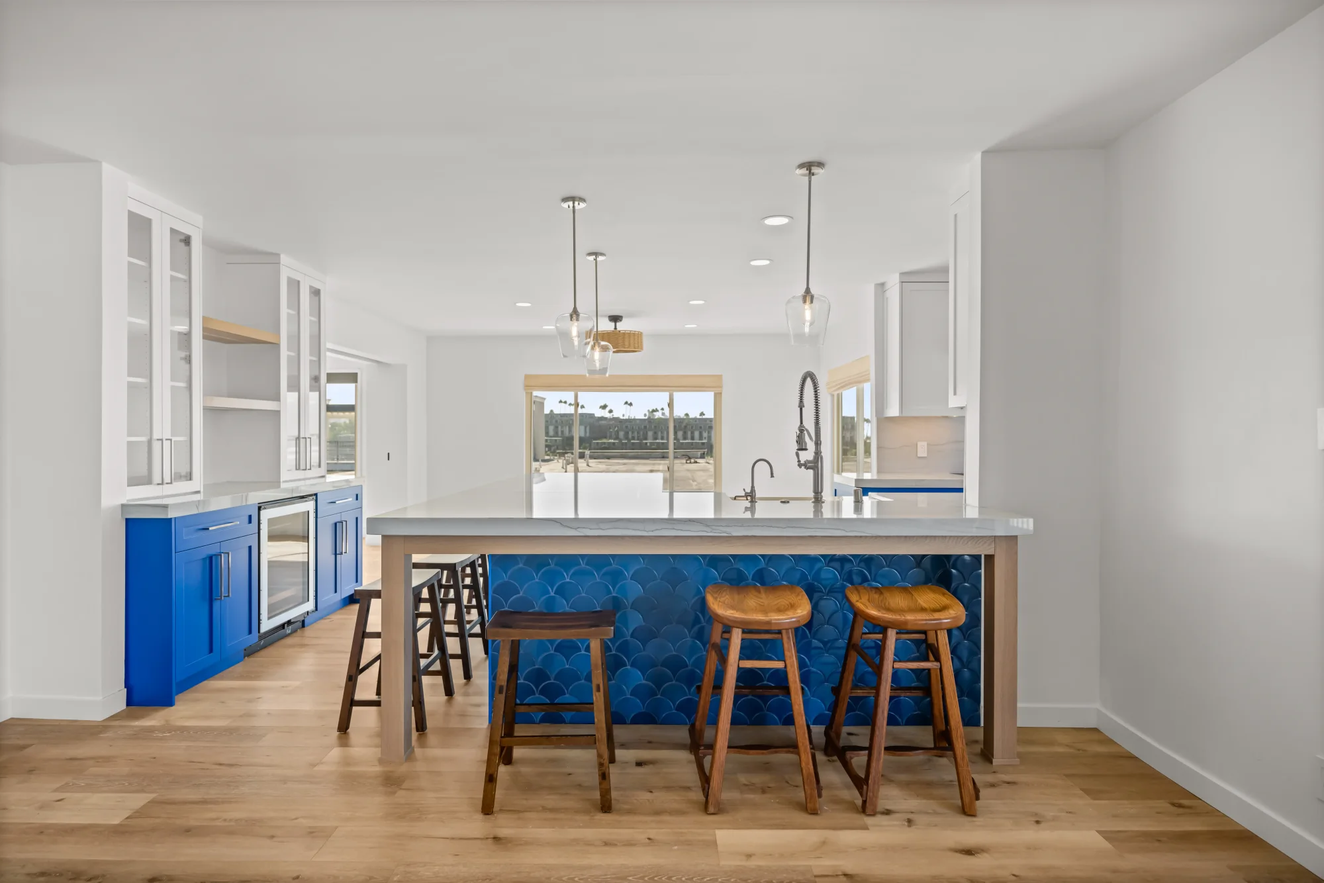
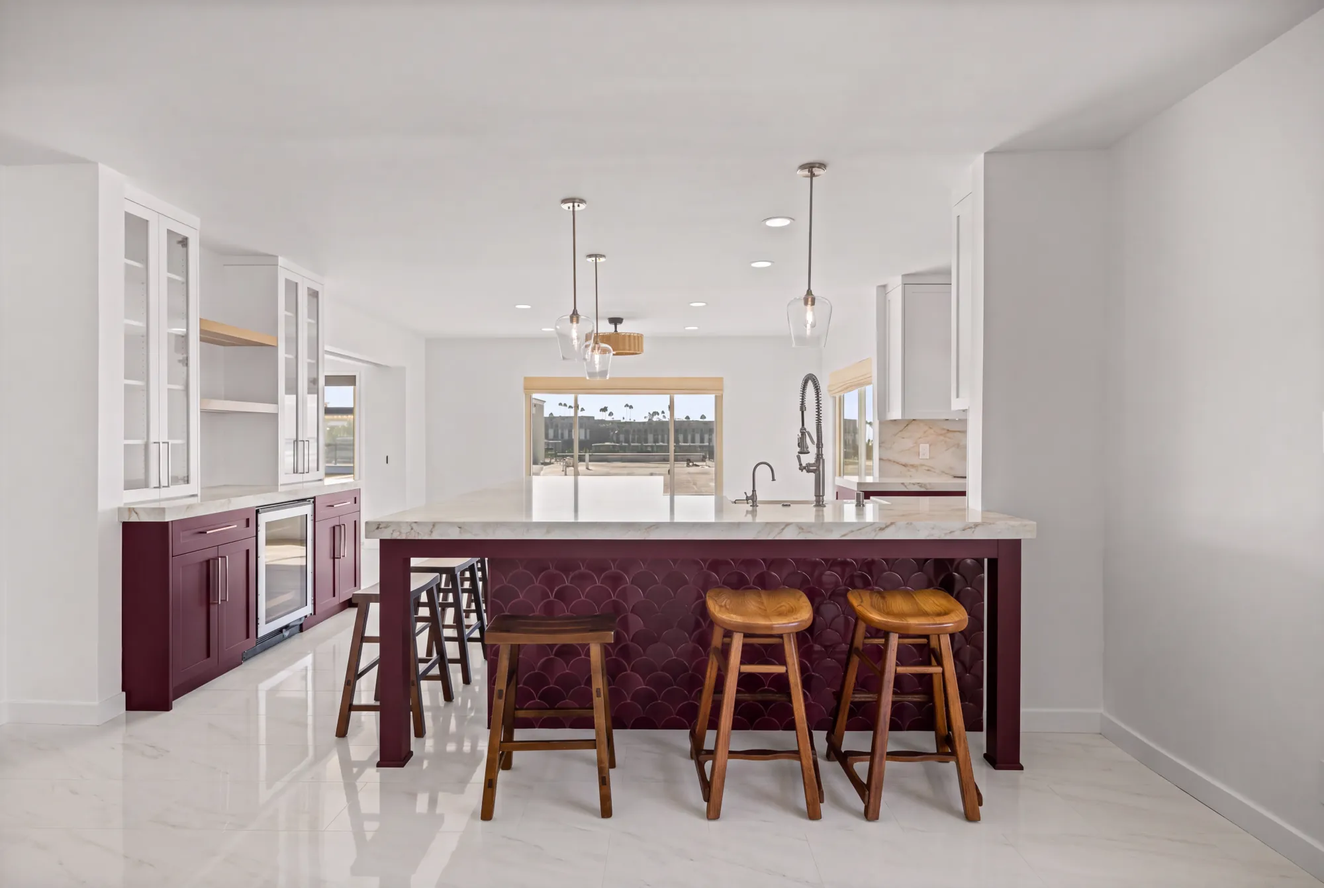
Dixie in burgundy, and the details brought in line with the photographs
Dixie Drive is the same room with burgundy base cabinets where they were blue,
white uppers unchanged, and a pale large-format floor where it was wood-look
plank. Photographs 1 to 6 are replaced; 11 to 20 are the bathrooms and stay.
Photograph 7 was a close-up of the blue base cabinets, so it is deleted rather
than left to contradict the rest; 8 is the laundry, a different room that was
not reshot, so it stays. The whole-home page keeps its LVP claim for the rest
of the house and now names tile in the kitchen.

Three jobs swapped earlier had details that were never checked past their
cabinet colour, and two were wrong:

Canyon Drive had no counters row at all, listed a tile backsplash where the
photographs show a stone slab behind the range, and never mentioned that the
cabinets are green. All three fixed.

Luciernaga argued that quartz, being engineered rather than quarried, means
the slab that arrives matches the slab specified. The new counters have heavy
natural movement, which is the opposite claim, so the material is described
rather than named and the paragraph now makes the case the photographs
actually support: veining that has to be laid out before it is cut.

Unicornio's details survive the reshoot unchanged.

Both cabinet landing galleries were carrying the same twenty projects in two
different orders, and neither matched the main gallery. All three now run in
the same order.

diff --git a/kitchen-remodel-pacific-beach-dixie-drive.html b/kitchen-remodel-pacific-beach-dixie-drive.html
@@ -17,7 +17,7 @@
 
 
   <title>Kitchen Remodel in Pacific Beach — Dixie Drive | Guild Builders Inc.</title>
-  <meta name="description" content="A full gut in Pacific Beach with custom blue base cabinets under custom white uppers, quartzite counters and backsplash, and every appliance relocated." />
+  <meta name="description" content="A full gut in Pacific Beach with custom burgundy base cabinets under custom white uppers, quartzite counters and backsplash, and every appliance relocated." />
 
 <link rel="preload" href="fonts/montserrat-latin.woff2" as="font" type="font/woff2" crossorigin />
   <link rel="preload" href="fonts/cormorant-garamond-latin.woff2" as="font" type="font/woff2" crossorigin />
@@ -33,7 +33,7 @@
   <meta property="og:type" content="article" />
   <meta property="og:site_name" content="Guild Builders Inc." />
   <meta property="og:title" content="Kitchen Remodel in Pacific Beach — Dixie Drive | Guild Builders Inc." />
-  <meta property="og:description" content="A full gut in Pacific Beach with custom blue base cabinets under custom white uppers, quartzite counters and backsplash, and every appliance relocated." />
+  <meta property="og:description" content="A full gut in Pacific Beach with custom burgundy base cabinets under custom white uppers, quartzite counters and backsplash, and every appliance relocated." />
   <meta property="og:url" content="https://guildbuildersgroup.com/kitchen-remodel-pacific-beach-dixie-drive" />
   <meta property="og:image" content="https://guildbuildersgroup.com/dixie1-1000.webp" />
   <meta name="twitter:card" content="summary_large_image" />
@@ -50,7 +50,7 @@
     "telephone": "+1-619-763-2982",
     "email": "info@guildbuildersgroup.com",
     "priceRange": "$$$",
-    "description": "A full gut in Pacific Beach with custom blue base cabinets under custom white uppers, quartzite counters and backsplash, and every appliance relocated.",
+    "description": "A full gut in Pacific Beach with custom burgundy base cabinets under custom white uppers, quartzite counters and backsplash, and every appliance relocated.",
     "address": {
       "@type": "PostalAddress",
       "streetAddress": "1345 Encinitas Blvd",
@@ -106,7 +106,7 @@
     "@type": "Service",
     "serviceType": "Kitchen Remodeling",
     "name": "Kitchen Remodeling in Pacific Beach",
-    "description": "A full gut in Pacific Beach with custom blue base cabinets under custom white uppers, quartzite counters and backsplash, and every appliance relocated.",
+    "description": "A full gut in Pacific Beach with custom burgundy base cabinets under custom white uppers, quartzite counters and backsplash, and every appliance relocated.",
     "url": "https://guildbuildersgroup.com/kitchen-remodel-pacific-beach-dixie-drive",
     "provider": {
       "@type": "GeneralContractor",
@@ -157,7 +157,7 @@
       <div class="container hero-content">
         <p class="eyebrow">Project &middot; Pacific Beach</p>
         <h1>Kitchen Remodel in Pacific Beach</h1>
-        <p class="hero-text">Dixie Drive &mdash; custom blue cabinets beneath custom white uppers, quartzite counters and backsplash, and every appliance in a new location.</p>
+        <p class="hero-text">Dixie Drive &mdash; custom burgundy cabinets beneath custom white uppers, quartzite counters and backsplash, and every appliance in a new location.</p>
       </div>
     </section>
 
@@ -171,19 +171,19 @@
             <div class="project-spec"><dt>Location</dt><dd>Pacific Beach, San Diego</dd></div>
             <div class="project-spec"><dt>Timeline</dt><dd>7 weeks</dd></div>
             <div class="project-spec"><dt>Scope</dt><dd>Full gut, all appliances relocated</dd></div>
-            <div class="project-spec"><dt>Cabinetry</dt><dd>Custom blue base, custom white uppers</dd></div>
+            <div class="project-spec"><dt>Cabinetry</dt><dd>Custom burgundy base, custom white uppers</dd></div>
             <div class="project-spec"><dt>Counters</dt><dd>Quartzite</dd></div>
             <div class="project-spec"><dt>Backsplash</dt><dd>Quartzite</dd></div>
             <div class="project-spec"><dt>Windows</dt><dd>New throughout</dd></div>
-            <div class="project-spec"><dt>Flooring</dt><dd>New luxury vinyl plank</dd></div>
+            <div class="project-spec"><dt>Flooring</dt><dd>Large-format tile</dd></div>
           </dl>
 
           <div class="post-body">
 <p>A full gut in Pacific Beach, built in two-tone custom cabinetry with quartzite carried from the counters straight up the wall.</p>
 
-<h2>Blue below, white above</h2>
+<h2>Burgundy below, white above</h2>
 
-<p>The base cabinets are a custom blue; the uppers are custom white. Both were built for the room rather than ordered from a line.</p>
+<p>The base cabinets are a custom burgundy; the uppers are custom white. Both were built for the room rather than ordered from a line.</p>
 
 <p>Two-tone is not only a colour decision &mdash; it changes how the kitchen sits. Darker cabinets below and lighter above give the room a base and let the top half recede, so the space reads taller and less closed in than an all-one-colour run. It is a useful move in beach houses, where kitchens are often smaller and ceilings lower than in newer inland construction.</p>
 
@@ -195,7 +195,7 @@
 
 <p>Quartzite is a natural stone, quarried rather than manufactured, which means the slab you choose is the slab you get &mdash; worth seeing in person before it is cut. It is harder than marble and it will take a hot pan, which engineered quartz will not.</p>
 
-<p>Against blue cabinetry it does something specific: the stone's movement is what carries the visual interest, so the cabinet colour can stay flat and calm underneath it.</p>
+<p>Against burgundy it does something specific: the stone's movement carries the visual interest, so the cabinet colour can sit flat and solid underneath it rather than competing.</p>
 
 <h2>Every appliance relocated</h2>
 
@@ -203,11 +203,11 @@
 
 <p>In an older Pacific Beach house this is usually the right call. These kitchens were laid out for how people cooked decades ago, often in a smaller footprint with the refrigerator wherever it fit. Rebuilding the layout is what makes the finished room work.</p>
 
-<h2>New windows and LVP flooring</h2>
+<h2>New windows and a tile floor</h2>
 
 <p>New windows went in throughout while the walls were open &mdash; far less disruptive than doing it after the finishes are in. Coastal houses take salt air on the frames, and older single-pane units are usually the weakest point in the whole envelope.</p>
 
-<p>The floors are new luxury vinyl plank: fully waterproof, which is worth having a few blocks from the sand, and forgiving of the sand itself.</p>
+<p>The floor is large-format tile laid with tight joints, so there is very little grout to hold the sand that comes through the door a few blocks from the beach. It is also the surface least bothered by a wet swimsuit walking across it.</p>
 
 <h2>The result</h2>
 
@@ -230,7 +230,6 @@
           <img src="dixie4-1000.webp" data-full="dixie4-2000.webp" alt="Dixie Drive kitchen remodel in Pacific Beach — photo 4" class="gallery-image" loading="lazy" />
           <img src="dixie5-1000.webp" data-full="dixie5-2000.webp" alt="Dixie Drive kitchen remodel in Pacific Beach — photo 5" class="gallery-image" loading="lazy" />
           <img src="dixie6-1000.webp" data-full="dixie6-2000.webp" alt="Dixie Drive kitchen remodel in Pacific Beach — photo 6" class="gallery-image" loading="lazy" />
-          <img src="dixie7-1000.webp" data-full="dixie7-2000.webp" alt="Dixie Drive kitchen remodel in Pacific Beach — photo 7" class="gallery-image" loading="lazy" />
           <img src="dixie8-1000.webp" data-full="dixie8-2000.webp" alt="Dixie Drive kitchen remodel in Pacific Beach — photo 8" class="gallery-image" loading="lazy" />
         </div>
       </div>

diff --git a/home-renovation-pacific-beach-dixie-drive.html b/home-renovation-pacific-beach-dixie-drive.html
@@ -17,7 +17,7 @@
 
 
   <title>Whole Home Renovation in Pacific Beach — Dixie Drive | Guild Builders Inc.</title>
-  <meta name="description" content="A whole-home renovation in Pacific Beach: a two-tone custom kitchen with quartzite counters and backsplash, four bathrooms on a coastal theme, new windows and new LVP throughout." />
+  <meta name="description" content="A whole-home renovation in Pacific Beach: a two-tone custom kitchen with quartzite counters and backsplash, four bathrooms on a coastal theme, new windows, and new flooring throughout." />
 
 <link rel="preload" href="fonts/montserrat-latin.woff2" as="font" type="font/woff2" crossorigin />
   <link rel="preload" href="fonts/cormorant-garamond-latin.woff2" as="font" type="font/woff2" crossorigin />
@@ -33,7 +33,7 @@
   <meta property="og:type" content="article" />
   <meta property="og:site_name" content="Guild Builders Inc." />
   <meta property="og:title" content="Whole Home Renovation in Pacific Beach — Dixie Drive | Guild Builders Inc." />
-  <meta property="og:description" content="A whole-home renovation in Pacific Beach: a two-tone custom kitchen with quartzite counters and backsplash, four bathrooms on a coastal theme, new windows and new LVP throughout." />
+  <meta property="og:description" content="A whole-home renovation in Pacific Beach: a two-tone custom kitchen with quartzite counters and backsplash, four bathrooms on a coastal theme, new windows, and new flooring throughout." />
   <meta property="og:url" content="https://guildbuildersgroup.com/home-renovation-pacific-beach-dixie-drive" />
   <meta property="og:image" content="https://guildbuildersgroup.com/dixie1-1000.webp" />
   <meta name="twitter:card" content="summary_large_image" />
@@ -50,7 +50,7 @@
     "telephone": "+1-619-763-2982",
     "email": "info@guildbuildersgroup.com",
     "priceRange": "$$$",
-    "description": "A whole-home renovation in Pacific Beach: a two-tone custom kitchen with quartzite counters and backsplash, four bathrooms on a coastal theme, new windows and new LVP throughout.",
+    "description": "A whole-home renovation in Pacific Beach: a two-tone custom kitchen with quartzite counters and backsplash, four bathrooms on a coastal theme, new windows, and new flooring throughout.",
     "address": {
       "@type": "PostalAddress",
       "streetAddress": "1345 Encinitas Blvd",
@@ -106,7 +106,7 @@
     "@type": "Service",
     "serviceType": "Home Renovation",
     "name": "Home Renovation in Pacific Beach",
-    "description": "A whole-home renovation in Pacific Beach: a two-tone custom kitchen with quartzite counters and backsplash, four bathrooms on a coastal theme, new windows and new LVP throughout.",
+    "description": "A whole-home renovation in Pacific Beach: a two-tone custom kitchen with quartzite counters and backsplash, four bathrooms on a coastal theme, new windows, and new flooring throughout.",
     "url": "https://guildbuildersgroup.com/home-renovation-pacific-beach-dixie-drive",
     "provider": {
       "@type": "GeneralContractor",
@@ -172,10 +172,10 @@
             <div class="project-spec"><dt>Scope</dt><dd>Kitchen, four bathrooms, windows and flooring</dd></div>
             <div class="project-spec"><dt>Kitchen</dt><dd>7 weeks &mdash; full gut, all appliances relocated</dd></div>
             <div class="project-spec"><dt>Bathrooms</dt><dd>8 weeks &mdash; four, including a master</dd></div>
-            <div class="project-spec"><dt>Cabinetry</dt><dd>Custom blue base with custom white uppers; one custom vanity</dd></div>
+            <div class="project-spec"><dt>Cabinetry</dt><dd>Custom burgundy base with custom white uppers; one custom vanity</dd></div>
             <div class="project-spec"><dt>Counters</dt><dd>Quartzite, carried up as the backsplash</dd></div>
             <div class="project-spec"><dt>Windows</dt><dd>New throughout</dd></div>
-            <div class="project-spec"><dt>Flooring</dt><dd>New luxury vinyl plank</dd></div>
+            <div class="project-spec"><dt>Flooring</dt><dd>Luxury vinyl plank, large-format tile in the kitchen</dd></div>
           </dl>
 
           <div class="post-body">
@@ -183,7 +183,7 @@
 
 <h2>The kitchen</h2>
 
-<p>A full gut with every appliance relocated, built in two-tone custom cabinetry &mdash; blue below, white above &mdash; with quartzite carried from the counters straight up the wall as the backsplash.</p>
+<p>A full gut with every appliance relocated, built in two-tone custom cabinetry &mdash; burgundy below, white above &mdash; with quartzite carried from the counters straight up the wall as the backsplash.</p>
 
 <p>Two-tone is not only a colour decision. Darker cabinets below and lighter above give the room a base and let the top half recede, so the space reads taller and less closed in. That is a useful move in beach houses, where kitchens tend to be smaller and ceilings lower than in newer inland construction.</p>
 
@@ -234,7 +234,6 @@
           <img src="dixie4-1000.webp" data-full="dixie4-2000.webp" alt="Dixie Drive home renovation remodel in Pacific Beach — photo 4" class="gallery-image" loading="lazy" />
           <img src="dixie5-1000.webp" data-full="dixie5-2000.webp" alt="Dixie Drive home renovation remodel in Pacific Beach — photo 5" class="gallery-image" loading="lazy" />
           <img src="dixie6-1000.webp" data-full="dixie6-2000.webp" alt="Dixie Drive home renovation remodel in Pacific Beach — photo 6" class="gallery-image" loading="lazy" />
-          <img src="dixie7-1000.webp" data-full="dixie7-2000.webp" alt="Dixie Drive home renovation remodel in Pacific Beach — photo 7" class="gallery-image" loading="lazy" />
           <img src="dixie8-1000.webp" data-full="dixie8-2000.webp" alt="Dixie Drive home renovation remodel in Pacific Beach — photo 8" class="gallery-image" loading="lazy" />
           <img src="dixie9-1000.webp" data-full="dixie9-2000.webp" alt="Dixie Drive home renovation remodel in Pacific Beach — photo 9" class="gallery-image" loading="lazy" />
           <img src="dixie10-1000.webp" data-full="dixie10-2000.webp" alt="Dixie Drive home renovation remodel in Pacific Beach — photo 10" class="gallery-image" loading="lazy" />

diff --git a/custom-cabinets.html b/custom-cabinets.html
@@ -205,8 +205,8 @@
       <h2>Custom Kitchen Cabinetry We&rsquo;ve Designed &amp; Built</h2>
       <p class="lp-section-lead">Cabinet runs we drew, built and installed across San Diego County</p>
       <div class="lp-gallery" id="gallery-track" tabindex="0" role="group" aria-label="Kitchen project photos, scrollable">
-        <img src="kingsfield1-1000.webp" data-full="kingsfield1-2000.webp" class="lp-gallery-image" data-lightbox-group="gallery" alt="Custom oak kitchen cabinetry with a navy island" loading="lazy" />
         <img src="miracle1-1000.webp" data-full="miracle1-2000.webp" class="lp-gallery-image" data-lightbox-group="gallery" alt="Remodeled kitchen with center island" loading="lazy" />
+        <img src="kingsfield1-1000.webp" data-full="kingsfield1-2000.webp" class="lp-gallery-image" data-lightbox-group="gallery" alt="Custom oak kitchen cabinetry with a navy island" loading="lazy" />
         <img src="caminito1-1000.webp" data-full="caminito1-2000.webp" class="lp-gallery-image" data-lightbox-group="gallery" alt="Modern kitchen remodel" loading="lazy" />
         <img src="baywind1-1000.webp" data-full="baywind1-2000.webp" class="lp-gallery-image" data-lightbox-group="gallery" alt="Full kitchen remodel with new cabinetry" loading="lazy" />
         <img src="westwood1-1000.webp" data-full="westwood1-2000.webp" class="lp-gallery-image" data-lightbox-group="gallery" alt="Updated kitchen with quartz countertops" loading="lazy" />
@@ -215,10 +215,10 @@
         <img src="unicornio1-1000.webp" data-full="unicornio1-2000.webp" class="lp-gallery-image" data-lightbox-group="gallery" alt="Kitchen remodel with new countertops" loading="lazy" />
         <img src="skyline1-1000.webp" data-full="skyline1-2000.webp" class="lp-gallery-image" data-lightbox-group="gallery" alt="Open-plan walnut kitchen with a full-height pantry wall" loading="lazy" />
         <img src="poole1-1000.webp" data-full="poole1-2000.webp" class="lp-gallery-image" data-lightbox-group="gallery" alt="Kitchen rebuilt with green beadboard cabinetry and a full-height stone backsplash" loading="lazy" />
+        <img src="donahue2-1000.webp" data-full="donahue2-2000.webp" class="lp-gallery-image" data-lightbox-group="gallery" alt="Donahue Drive kitchen remodel in San Diego" loading="lazy" />
         <img src="luciernaga1-1000.webp" data-full="luciernaga1-2000.webp" class="lp-gallery-image" data-lightbox-group="gallery" alt="Custom kitchen with island seating" loading="lazy" />
         <img src="southsierra2-1000.webp" data-full="southsierra2-2000.webp" class="lp-gallery-image" data-lightbox-group="gallery" alt="Solana Beach kitchen with a light green island and integrated laundry" loading="lazy" />
         <img src="canyon1-1000.webp" data-full="canyon1-2000.webp" class="lp-gallery-image" data-lightbox-group="gallery" alt="Kitchen cabinetry and countertop update" loading="lazy" />
-        <img src="donahue2-1000.webp" data-full="donahue2-2000.webp" class="lp-gallery-image" data-lightbox-group="gallery" alt="Donahue Drive kitchen remodel in San Diego" loading="lazy" />
         <img src="everts1-1000.webp" data-full="everts1-2000.webp" class="lp-gallery-image" data-lightbox-group="gallery" alt="Remodeled kitchen with tile backsplash" loading="lazy" />
         <img src="northstar1-1000.webp" data-full="northstar1-2000.webp" class="lp-gallery-image" data-lightbox-group="gallery" alt="Kitchen layout change and remodel" loading="lazy" />
         <img src="dalia1-1000.webp" data-full="dalia1-2000.webp" class="lp-gallery-image" data-lightbox-group="gallery" alt="Custom kitchen remodel" loading="lazy" />

diff --git a/kitchen-remodel-san-diego-canyon-drive.html b/kitchen-remodel-san-diego-canyon-drive.html
@@ -172,8 +172,9 @@
             <div class="project-spec"><dt>Timeline</dt><dd>8 weeks</dd></div>
             <div class="project-spec"><dt>Scope</dt><dd>Full gut, load-bearing wall removed</dd></div>
             <div class="project-spec"><dt>Layout</dt><dd>All appliances relocated</dd></div>
-            <div class="project-spec"><dt>Cabinetry</dt><dd>Semi-custom, custom built hood</dd></div>
-            <div class="project-spec"><dt>Backsplash</dt><dd>Tile</dd></div>
+            <div class="project-spec"><dt>Cabinetry</dt><dd>Semi-custom, green, custom built hood</dd></div>
+            <div class="project-spec"><dt>Counters</dt><dd>Stone</dd></div>
+            <div class="project-spec"><dt>Backsplash</dt><dd>Stone slab behind the range</dd></div>
             <div class="project-spec"><dt>Windows</dt><dd>New throughout</dd></div>
             <div class="project-spec"><dt>Flooring</dt><dd>New engineered hardwood</dd></div>
           </dl>
@@ -195,9 +196,9 @@
 
 <p>Relocating appliances means new gas, new electrical, new water lines and new venting run inside the walls and under the floor before anything closes up. It is work nobody ever sees, and it is the reason the finished kitchen works the way it does &mdash; the range where the cooking naturally happens, the refrigerator where it does not block the path through.</p>
 
-<h2>Semi-custom cabinets with a custom hood</h2>
+<h2>Green cabinets, semi-custom, with a custom hood</h2>
 
-<p>The cabinetry is semi-custom, which fit the new runs well. The hood is custom, built on site.</p>
+<p>The cabinetry is semi-custom and painted a deep green; the hood is custom, built on site and clad to match.</p>
 
 <p>That combination is deliberate. Semi-custom lines cover standard widths and standard depths, which is most of a kitchen. A hood is the exception &mdash; it sits at eye level in the middle of the wall, it has to reach a specific height, and it has to be sized to the range beneath it. Building it rather than ordering it means it fits the room instead of the room accommodating it.</p>
 
@@ -207,9 +208,9 @@
 
 <p>Replacing them while the walls are already open is also considerably less disruptive than doing it later, when the finishes are in and every opening has to be protected.</p>
 
-<h2>Engineered hardwood and tile</h2>
+<h2>Engineered hardwood, and stone behind the range</h2>
 
-<p>New engineered hardwood throughout, with a tile backsplash. Engineered hardwood handles the humidity swings of a kitchen better than solid wood does, and it can run continuously from the kitchen into the adjoining rooms &mdash; which, with the wall gone, is now one space.</p>
+<p>New engineered hardwood throughout, and a stone slab behind the range rather than tile. Engineered hardwood handles the humidity swings of a kitchen better than solid wood does, and it runs continuously from the kitchen into the adjoining rooms, which with the wall gone is now one space. The pale slab is what keeps the green from closing the room in: it sits directly behind the range, where the eye goes first.</p>
 
 <h2>The result</h2>
 

diff --git a/kitchen-remodel-a.html b/kitchen-remodel-a.html
@@ -199,10 +199,10 @@
         <img src="unicornio1-1000.webp" data-full="unicornio1-2000.webp" class="lp-gallery-image" data-lightbox-group="gallery" alt="Kitchen remodel with new countertops" loading="lazy" />
         <img src="skyline1-1000.webp" data-full="skyline1-2000.webp" class="lp-gallery-image" data-lightbox-group="gallery" alt="Open-plan walnut kitchen with a full-height pantry wall" loading="lazy" />
         <img src="poole1-1000.webp" data-full="poole1-2000.webp" class="lp-gallery-image" data-lightbox-group="gallery" alt="Kitchen rebuilt with green beadboard cabinetry and a full-height stone backsplash" loading="lazy" />
+        <img src="donahue2-1000.webp" data-full="donahue2-2000.webp" class="lp-gallery-image" data-lightbox-group="gallery" alt="Donahue Drive kitchen remodel in San Diego" loading="lazy" />
         <img src="luciernaga1-1000.webp" data-full="luciernaga1-2000.webp" class="lp-gallery-image" data-lightbox-group="gallery" alt="Custom kitchen with island seating" loading="lazy" />
         <img src="southsierra2-1000.webp" data-full="southsierra2-2000.webp" class="lp-gallery-image" data-lightbox-group="gallery" alt="Solana Beach kitchen with a light green island and integrated laundry" loading="lazy" />
         <img src="canyon1-1000.webp" data-full="canyon1-2000.webp" class="lp-gallery-image" data-lightbox-group="gallery" alt="Kitchen cabinetry and countertop update" loading="lazy" />
-        <img src="donahue2-1000.webp" data-full="donahue2-2000.webp" class="lp-gallery-image" data-lightbox-group="gallery" alt="Donahue Drive kitchen remodel in San Diego" loading="lazy" />
         <img src="everts1-1000.webp" data-full="everts1-2000.webp" class="lp-gallery-image" data-lightbox-group="gallery" alt="Remodeled kitchen with tile backsplash" loading="lazy" />
         <img src="northstar1-1000.webp" data-full="northstar1-2000.webp" class="lp-gallery-image" data-lightbox-group="gallery" alt="Kitchen layout change and remodel" loading="lazy" />
         <img src="dalia1-1000.webp" data-full="dalia1-2000.webp" class="lp-gallery-image" data-lightbox-group="gallery" alt="Custom kitchen remodel" loading="lazy" />

diff --git a/kitchen-remodel-carlsbad-luciernaga.html b/kitchen-remodel-carlsbad-luciernaga.html
@@ -173,8 +173,8 @@
             <div class="project-spec"><dt>Scope</dt><dd>Full gut and rebuild</dd></div>
             <div class="project-spec"><dt>Layout</dt><dd>Appliances relocated</dd></div>
             <div class="project-spec"><dt>Cabinetry</dt><dd>New white oak</dd></div>
-            <div class="project-spec"><dt>Counters</dt><dd>Quartz</dd></div>
-            <div class="project-spec"><dt>Backsplash</dt><dd>Quartz, matched to the counters</dd></div>
+            <div class="project-spec"><dt>Counters</dt><dd>Stone</dd></div>
+            <div class="project-spec"><dt>Backsplash</dt><dd>Same stone, carried up the wall</dd></div>
             <div class="project-spec"><dt>Flooring</dt><dd>Existing floor retained</dd></div>
           </dl>
 
@@ -197,11 +197,11 @@
 
 <p>New throughout, in white oak. It takes a light finish without going orange the way some oaks do, and the grain carries a large expanse without needing a second material to break it up.</p>
 
-<h2>Quartz, counter and wall</h2>
+<h2>One stone, counter and wall</h2>
 
-<p>Quartz counters with the same material carried up the wall as the backsplash. Running the slab vertically removes the horizontal break a tile backsplash creates, so the counter and wall read as one surface.</p>
+<p>Heavily veined stone counters, with the same slab carried up the wall as the backsplash. Running the slab vertically removes the horizontal break a tile backsplash creates, so the counter and wall read as one surface.</p>
 
-<p>It also removes grout from behind the range — the part of a kitchen that takes the most splashing and the most cleaning. Quartz was the right choice for a household that wanted a surface needing no sealing and no thought, and being engineered rather than quarried, the slab that arrives matches the slab that was specified.</p>
+<p>It also removes grout from behind the range — the part of a kitchen that takes the most splashing and the most cleaning. Stone with this much movement has to be laid out before it is cut, so the veining runs on across the joint where counter meets wall instead of stopping dead at the corner.</p>
 
 <h2>The result</h2>
 

diff --git a/full-home-renovations.html b/full-home-renovations.html
@@ -391,7 +391,6 @@
           <img src="dixie4-1000.webp" data-full="dixie4-2000.webp" alt="Dixie Drive full home renovation photo 4" class="gallery-image" loading="lazy" />
           <img src="dixie5-1000.webp" data-full="dixie5-2000.webp" alt="Dixie Drive full home renovation photo 5" class="gallery-image" loading="lazy" />
           <img src="dixie6-1000.webp" data-full="dixie6-2000.webp" alt="Dixie Drive full home renovation photo 6" class="gallery-image" loading="lazy" />
-          <img src="dixie7-1000.webp" data-full="dixie7-2000.webp" alt="Dixie Drive full home renovation photo 7" class="gallery-image" loading="lazy" />
           <img src="dixie8-1000.webp" data-full="dixie8-2000.webp" alt="Dixie Drive full home renovation photo 8" class="gallery-image" loading="lazy" />
           <img src="dixie9-1000.webp" data-full="dixie9-2000.webp" alt="Dixie Drive full home renovation photo 9" class="gallery-image" loading="lazy" />
           <img src="dixie10-1000.webp" data-full="dixie10-2000.webp" alt="Dixie Drive full home renovation photo 10" class="gallery-image" loading="lazy" />

diff --git a/kitchens-cabinets.html b/kitchens-cabinets.html
@@ -667,7 +667,6 @@
           <img src="dixie4-1000.webp" data-full="dixie4-2000.webp" alt="Dixie Drive kitchen remodel photo 4" class="gallery-image" loading="lazy" />
           <img src="dixie5-1000.webp" data-full="dixie5-2000.webp" alt="Dixie Drive kitchen remodel photo 5" class="gallery-image" loading="lazy" />
           <img src="dixie6-1000.webp" data-full="dixie6-2000.webp" alt="Dixie Drive kitchen remodel photo 6" class="gallery-image" loading="lazy" />
-          <img src="dixie7-1000.webp" data-full="dixie7-2000.webp" alt="Dixie Drive kitchen remodel photo 7" class="gallery-image" loading="lazy" />
           <img src="dixie8-1000.webp" data-full="dixie8-2000.webp" alt="Dixie Drive kitchen remodel photo 8" class="gallery-image" loading="lazy" />
         </div>
 

diff --git a/san-diego.html b/san-diego.html
@@ -268,7 +268,7 @@
           <img src="dixie1-1000.webp" alt="Dixie Drive &mdash; whole home renovation in Pacific Beach" loading="lazy" />
           <div class="city-project-body">
             <h3>Dixie Drive &mdash; Whole Home Renovation</h3>
-            <p>A whole-home renovation in Pacific Beach: a two-tone custom kitchen with quartzite counters and backsplash, four bathrooms on a coastal theme, new windows and new LVP throughout.</p>
+            <p>A whole-home renovation in Pacific Beach: a two-tone custom kitchen with quartzite counters and backsplash, four bathrooms on a coastal theme, new windows, and new flooring throughout.</p>
             <span class="city-project-cta">See the project &rarr;</span>
           </div>
         </a>
